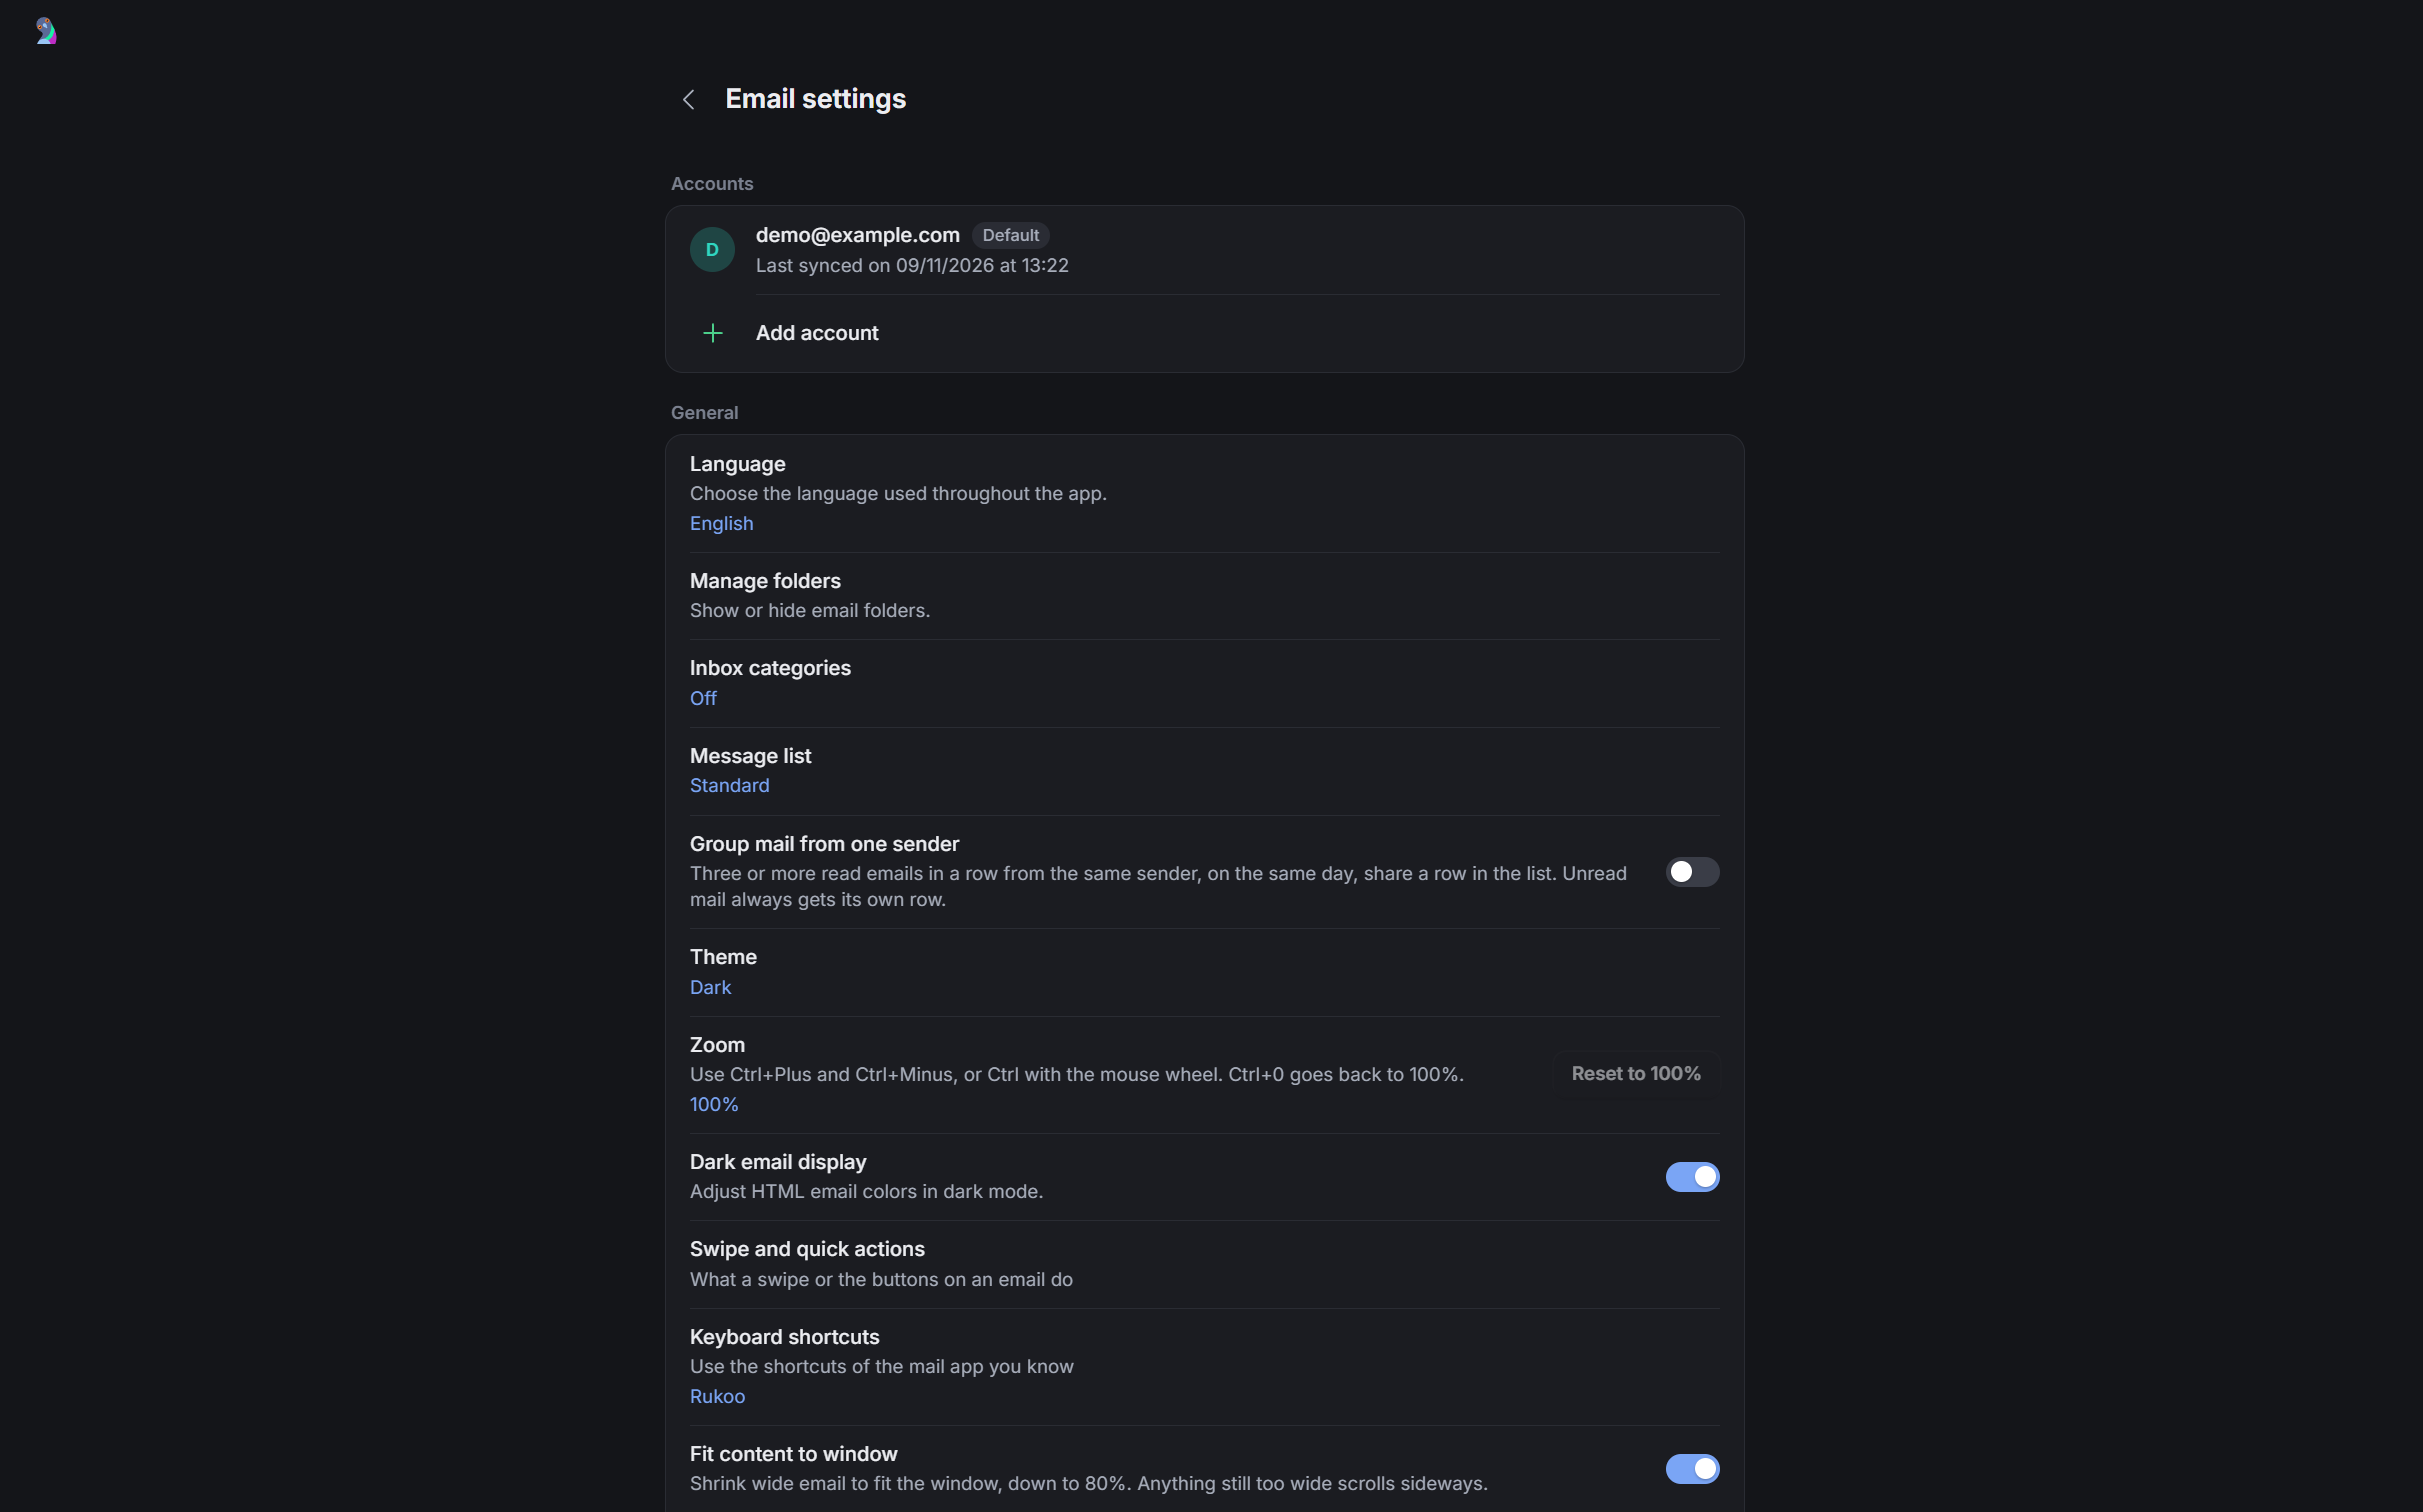
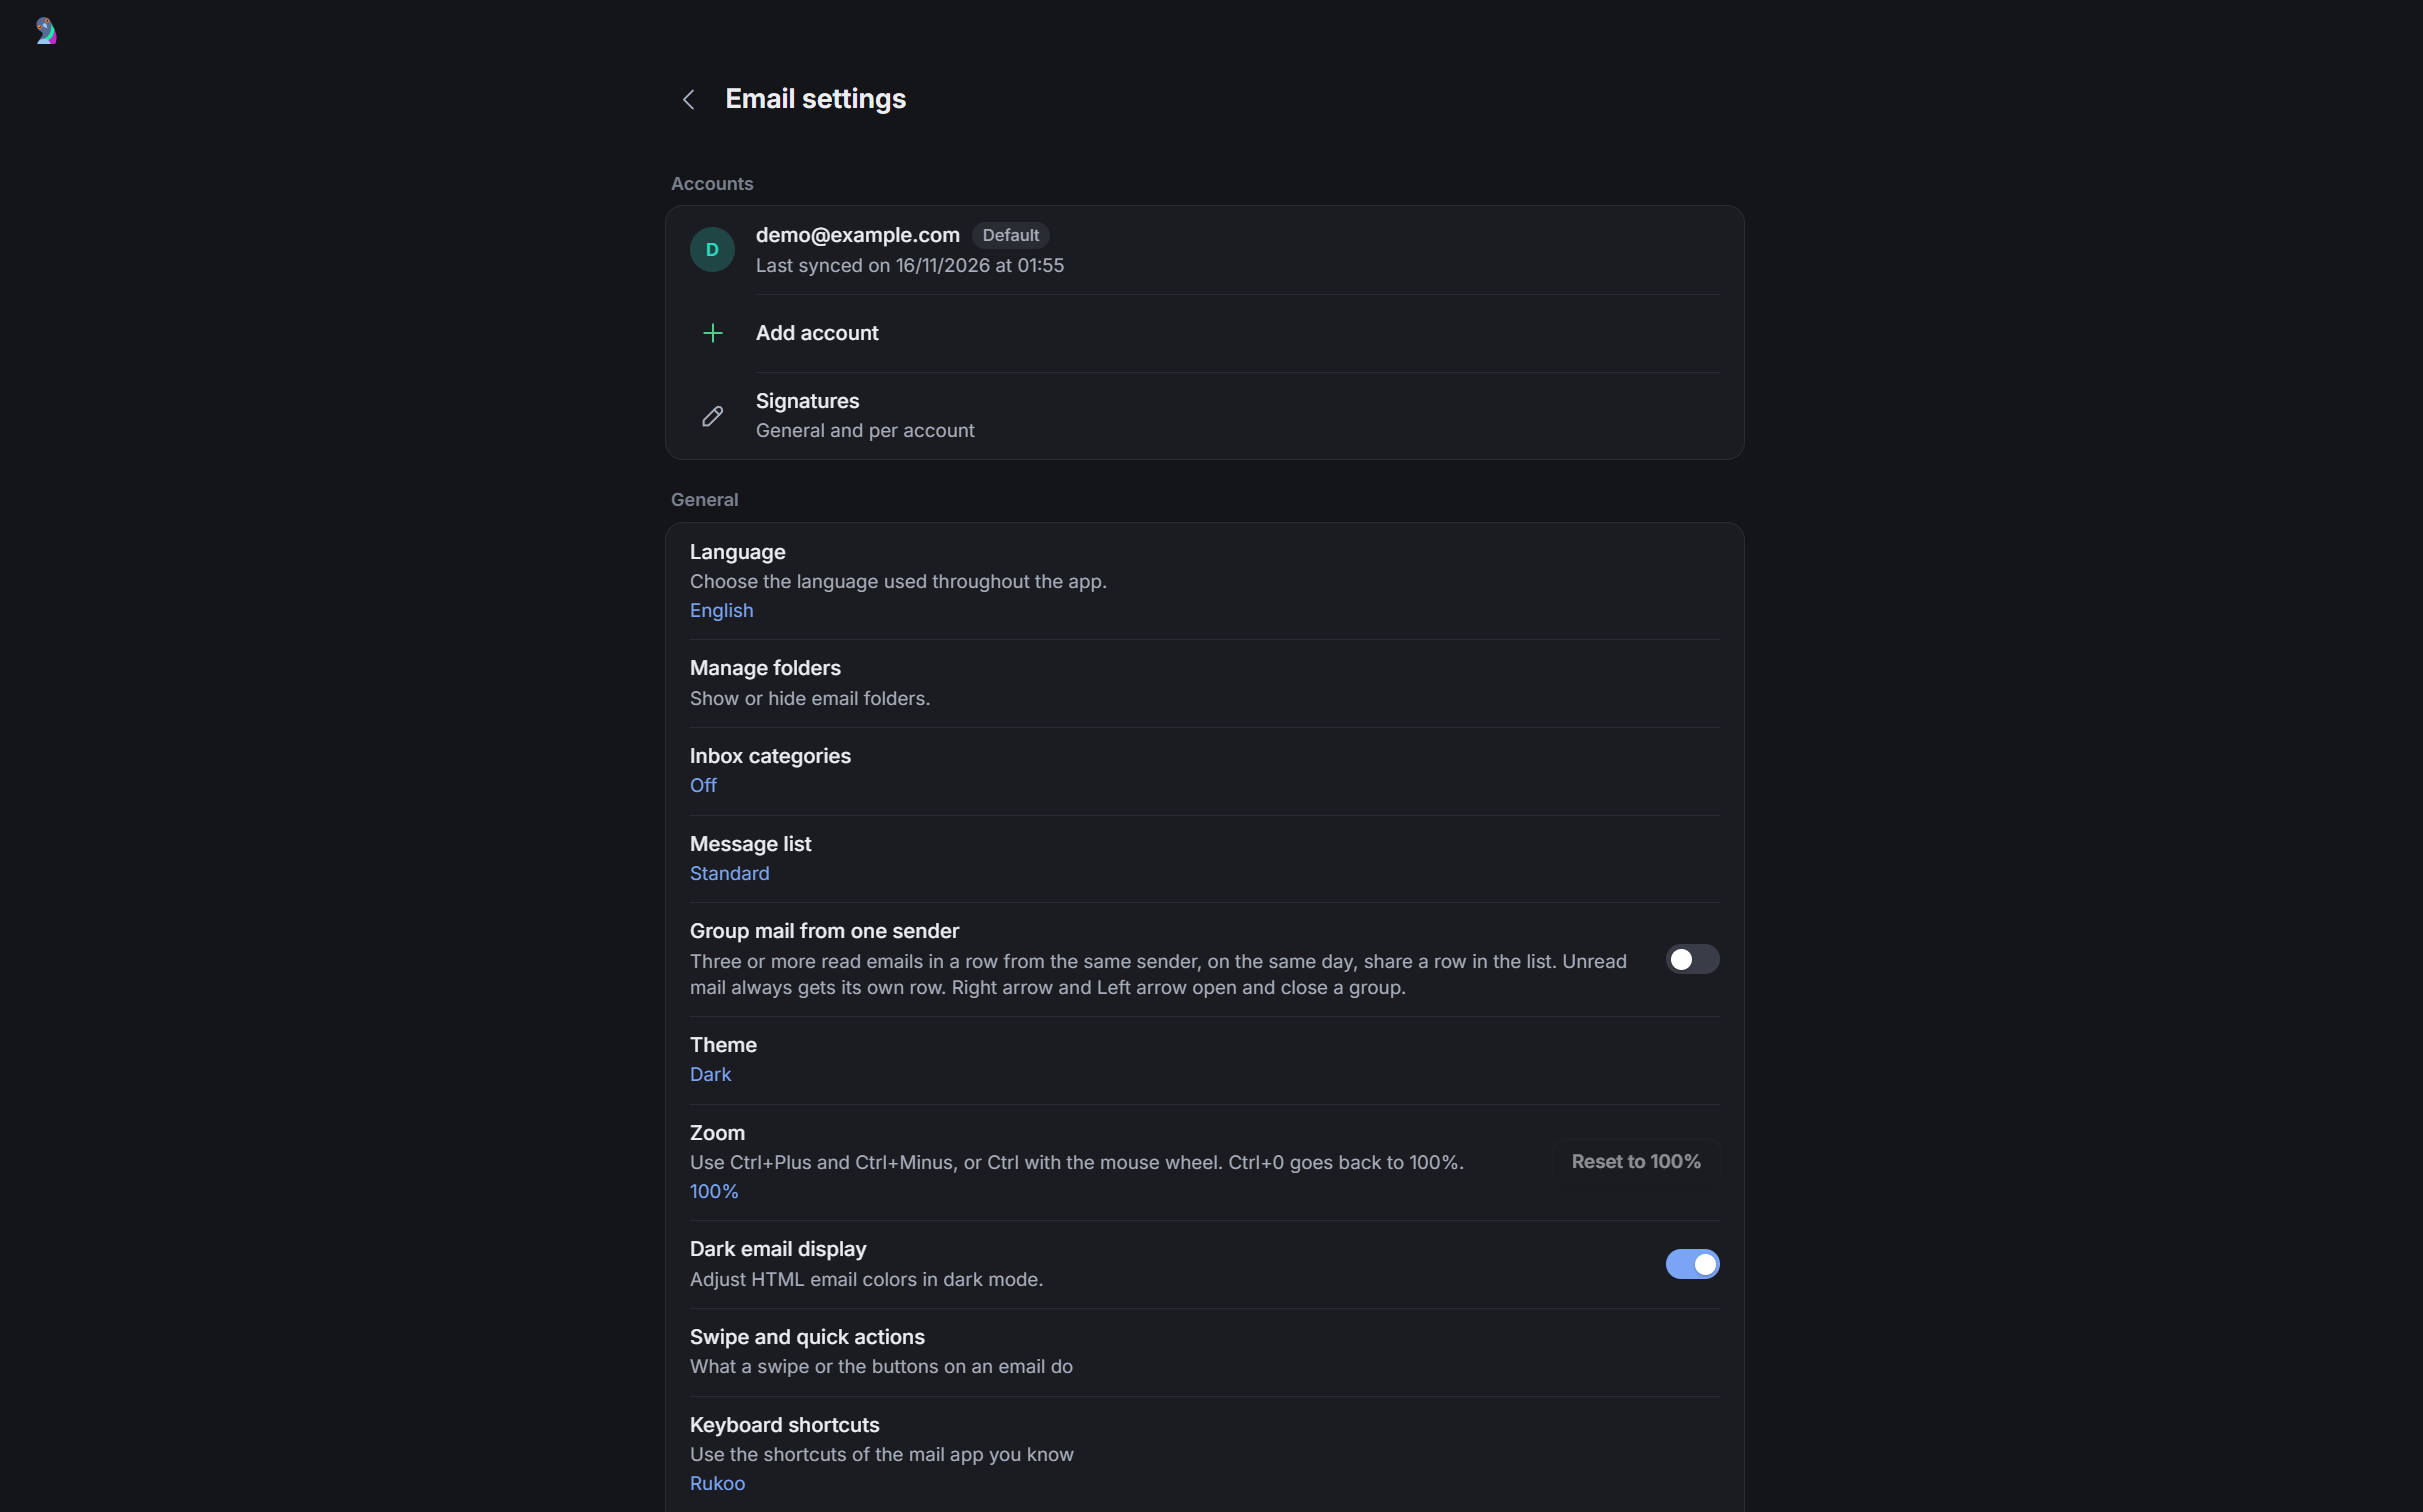
Warn on npm versions that rewrite the lockfile and refresh the Settings screenshots (#305)
* Name the npm versions that keep package-lock.json unchanged

npm 11.5.0 to 11.6.2 rewrite the lockfile during npm install: 11.5.x and 11.6.0 drop @electron/windows-sign and its dependencies, and 11.6.1 and 11.6.2 move peer flags. devEngines in package.json now warns on those versions, and the setup docs say which npm to use. The README no longer lists the large-message limit #265 fixed.

Refs #247

* Refresh the Settings and calendar documentation screenshots

Settings now shows the Signatures row, and the calendar images show the Meet tab and the current demo week.

Closes #243

diff --git a/README.md b/README.md
@@ -95,11 +95,10 @@ More screens are in [docs/screenshots](docs/screenshots), in light and dark mode
 - Rukoo keeps the newest 300 inbox messages and 100 per other folder on your computer. Older mail stays on the server: "Load older emails" at the end of a folder brings it in, 100 at a time, and a search also looks for it on the server. See [What Rukoo keeps on your computer](docs/mail.md#what-rukoo-keeps-on-your-computer).
 - Bookings reach your calendar only while Rukoo runs on the computer that handles your booking page. Until then the server holds them.
 - Rukoo for Android has no calendar or push mail yet.
-- A message with a large attachment downloads in full before its text shows ([#56](https://github.com/MajesteitBart/rukoo/issues/56)).
 
 ## Development
 
-Rukoo needs Node.js 22 or newer.
+Rukoo needs Node.js 22 or newer, with npm 10 or npm 11.6.3 or newer. npm 11.5.0 to 11.6.2 rewrite `package-lock.json`; see [Developing Rukoo](docs/development.md#run-from-source).
 
 ```bash
 npm install

diff --git a/docs/development.md b/docs/development.md
@@ -9,6 +9,8 @@ npm install
 npm start
 ```
 
+Use npm 10, which comes with Node.js 22, or npm 11.6.3 or newer. npm 11.5.0 to 11.6.2 rewrite `package-lock.json` during `npm install`: 11.5 and 11.6.0 drop `@electron/windows-sign` and the packages it needs, and 11.6.1 and 11.6.2 move `peer` flags between packages. Node.js 24.5 to 24.13 and 25.0 to 25.3 ship one of those versions. `npm --version` shows yours, and `npm install -g npm@latest` updates it. `devEngines` in `package.json` names the versions that leave the lockfile as it is, so npm warns during an install with any other version.
+
 `npm start` goes through `scripts/start.js`, which clears `ELECTRON_RUN_AS_NODE`. Terminals that run on Electron, such as VS Code and T3 Code, export that variable, and it makes `electron.exe` behave like plain Node.
 
 `SEM_DATA_DIR` points Rukoo at a separate profile, so a test run doesn't touch your own accounts and settings.
